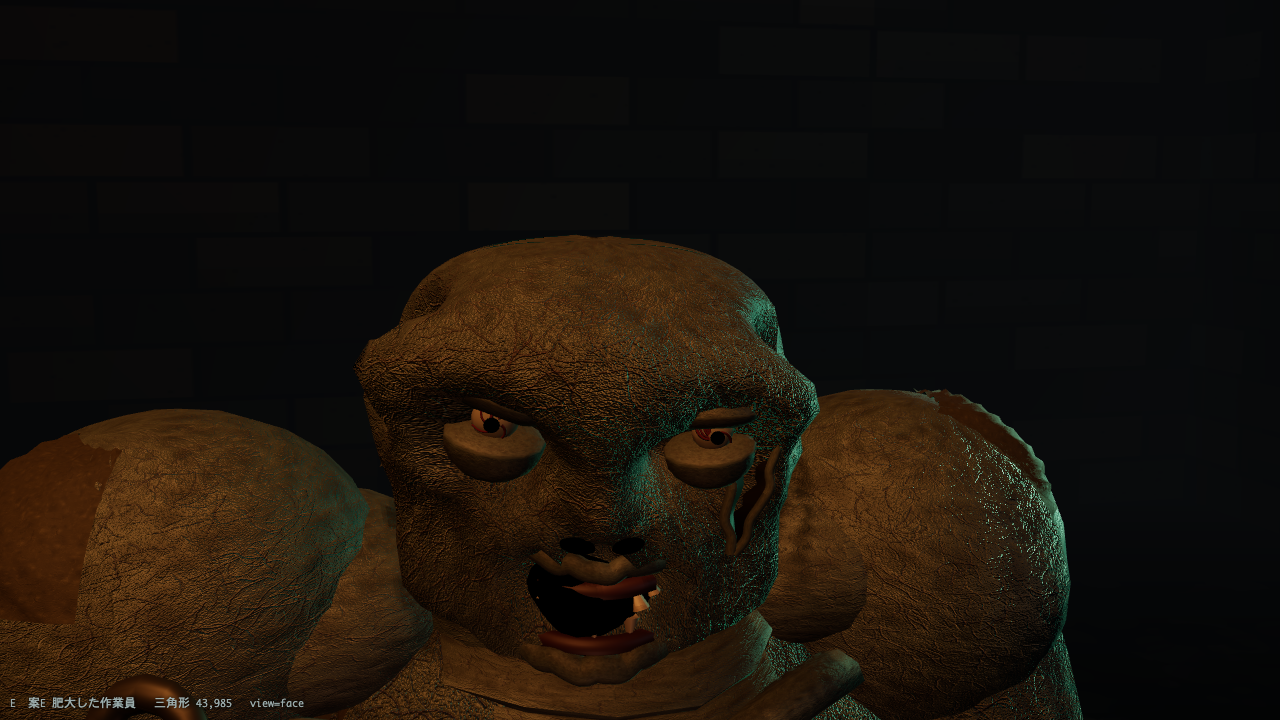
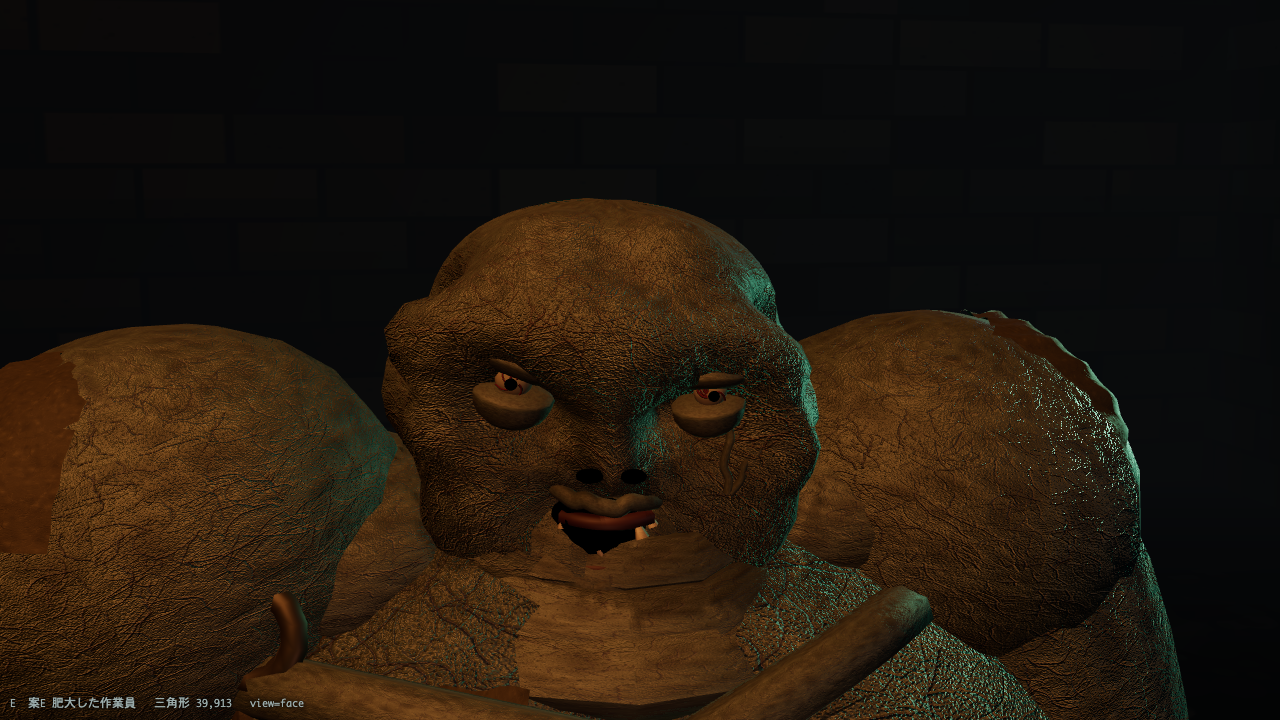
P5e-1 差し戻し: 案E 頬の膨らみ復活＋肥大化（full/face/corridor）
ユーザー評「以前の頬が膨らんでいる感じの方がよかった。もっと肥大化させて」
（契約 §4 P5e-1 目視差し戻し）
- 顔: 頭を一回り大きくし頭頂の丸みを戻したうえで、頬／頬袋／顎下／耳の前／
  額／後頭に隆起を10箇所追加＝「骨の上に水で膨れた肉が張っている」形へ。
  眉弓と眼窩の庇はむしろ強め、腫れた瞼の小さな眼は維持（丸い目玉に戻さない）。
  膨れた肉の境目の皺3本と、鼻梁→鼻尖の稜を彫り直し
- 体: 胴回り1.5倍（防護服の殻・胸腹の縦裂も同率）、脚と腕も水膨れで太くし
  belly を上げて関節の括れを埋めた。肩/肩の肉/鎖骨/反射帯/首の襞も追随
- 裂け目を5→10箇所に増設（腹・脇・上腕・肩）
- 胸腹の縦裂: 肋骨の断端と内臓を開口のすぐ内側へ出し、肥大した腹の陰でも読める
- 頭が肩の肉に沈むのと鎖・鋳鉄の鉤は維持
- 三角形を頭 seg 44／胴 26x18／防護服の殻 13x10／tear() 軽量化で吸収

顔の寄りの中央値輝度 12（v4_face.png=10・規定 9〜14）／三角形 39,913

diff --git a/audit/enemy-mocks-a2/3d/mock_E.js b/audit/enemy-mocks-a2/3d/mock_E.js
@@ -9,7 +9,7 @@
   var L = ESCAPE.__A2LIB;
 
   var ANK = 0.095, KNEE = 0.505, HIP = 0.930, SHOULDER = 1.585;
-  var HEADY = 1.690, HRX = 0.125, HRY = 0.146, HRZ = 0.136;
+  var HEADY = 1.690, HRX = 0.141, HRY = 0.150, HRZ = 0.150;
   var SPLIT_TOP = 1.455, SPLIT_BOT = 1.010;
 
   function mats() {
@@ -47,8 +47,8 @@
     var yb = HIP - 0.190, yt = SHOULDER + 0.045, cy = (yb + yt) / 2, hy = (yt - yb) / 2;
     var T = [[1, 0.90, 0.80], [0.70, 1.00, 0.92], [0.30, 1.06, 1.04], [-0.10, 1.10, 1.10],
       [-0.50, 1.02, 1.00], [-1, 0.72, 0.68]];
-    var geo = new THREE.SphereGeometry(1, 30, 22);
-    geo.scale(0.315, hy, 0.255);
+    var geo = new THREE.SphereGeometry(1, 26, 18);
+    geo.scale(0.472, hy, 0.382);
     L.deform(geo, function (x, y, z, o) {
       var ny = L.clamp(y / hy, -1, 1);
       var k = (function (n) {
@@ -88,9 +88,9 @@
     var N = 16, Lft = [], Rgt = [], Bot = [], Bot2 = [], R = L.rng(521);
     for (var i = 0; i <= N; i++) {
       var t = i / N, y = SPLIT_TOP - (SPLIT_TOP - SPLIT_BOT) * t;
-      var w = 0.118 * Math.sin(Math.PI * Math.pow(t, 0.85)) + 0.016;   /* 中ほどが最も開く */
-      var zEdge = -0.262 + 0.020 * Math.abs(t - 0.5);
-      var zBot = -0.118 - 0.016 * Math.sin(Math.PI * t);
+      var w = 0.164 * Math.sin(Math.PI * Math.pow(t, 0.85)) + 0.022;   /* 中ほどが最も開く */
+      var zEdge = -0.436 + 0.030 * Math.abs(t - 0.5);
+      var zBot = -0.280 - 0.030 * Math.sin(Math.PI * t);
       Lft.push([w * (1 + 0.10 * R()), y, zEdge]);
       Rgt.push([-w * (1 + 0.10 * R()), y, zEdge]);
       Bot.push([0.006 * Math.sin(t * 9), y, zBot]);
@@ -101,31 +101,31 @@
     g.add(L.m(L.strip(Bot2, Rgt), M.flesh));
     g.add(L.m(L.strip(Rgt, Bot2), M.flesh));
     /* 谷の底の暗がり */
-    g.add(L.m(L.ell(0.026, (SPLIT_TOP - SPLIT_BOT) / 2, 0.030, 14), M.void,
-      [0, (SPLIT_TOP + SPLIT_BOT) / 2, -0.108]));
+    g.add(L.m(L.ell(0.030, (SPLIT_TOP - SPLIT_BOT) / 2, 0.034, 14), M.void,
+      [0, (SPLIT_TOP + SPLIT_BOT) / 2, -0.228]));
     /* 肋骨の断端（両壁から折れて覗く） */
     for (var r = 0; r < 5; r++) {
       var yy = SPLIT_TOP - 0.045 - r * 0.082;
       [1, -1].forEach(function (sgn) {
-        var tor = new THREE.TorusGeometry(0.062 + r * 0.005, 0.0125, 6, 14, 1.15);
-        g.add(L.m(tor, M.rib, [sgn * 0.066, yy, -0.206],
+        var tor = new THREE.TorusGeometry(0.082 + r * 0.007, 0.0145, 6, 14, 1.20);
+        g.add(L.m(tor, M.rib, [sgn * 0.086, yy, -0.330],
           [0.15 + r * 0.05, sgn > 0 ? -0.9 : Math.PI + 0.9, sgn > 0 ? 0.65 : -0.65]));
       });
     }
     /* 濡れた内臓（谷の底に詰まる） */
     for (var j = 0; j < 8; j++) {
       var y2 = SPLIT_TOP - 0.055 - j * 0.055;
-      g.add(L.m(L.ell(0.024 + R() * 0.012, 0.022 + R() * 0.010, 0.022, 9), M.flesh,
-        [(R() - 0.5) * 0.038, y2, -0.150 + (R() - 0.5) * 0.024]));
+      g.add(L.m(L.ell(0.030 + R() * 0.014, 0.028 + R() * 0.012, 0.028, 9), M.flesh,
+        [(R() - 0.5) * 0.046, y2, -0.286 + (R() - 0.5) * 0.028]));
     }
     var pts = [];
-    for (var k = 0; k < 7; k++) pts.push([Math.sin(k * 1.7) * 0.028, SPLIT_BOT + 0.13 - k * 0.026, -0.168 + Math.cos(k * 1.3) * 0.014]);
+    for (var k = 0; k < 7; k++) pts.push([Math.sin(k * 1.7) * 0.032, SPLIT_BOT + 0.13 - k * 0.026, -0.300 + Math.cos(k * 1.3) * 0.016]);
     g.add(L.m(L.tube(pts, 0.016, 7), M.flesh));
     /* 裂けた皮膚の縁（捲れて垂れる） */
     [1, -1].forEach(function (sg) {
       var fl = new THREE.PlaneGeometry(0.040, 0.13, 2, 4);
       L.deform(fl, function (x, y, z, o) { o[2] = z + Math.sin(y * 18) * 0.010; o[0] = x * (1 - 0.45 * Math.max(0, -y / 0.13)); });
-      var mm = L.m(fl, M.skin, [sg * 0.134, SPLIT_BOT + 0.06, -0.238], [0.20, sg * 1.1, sg * 0.28]);
+      var mm = L.m(fl, M.skin, [sg * 0.176, SPLIT_BOT + 0.06, -0.386], [0.20, sg * 1.1, sg * 0.28]);
       mm.material.side = THREE.DoubleSide;
       g.add(mm);
     });
@@ -135,19 +135,19 @@
   function head(M) {
     var g = new THREE.Group(), X = HRX, Y = HRY, Z = HRZ;
     /* 頭蓋から積む: 眉弓を重く、頬骨・下顎を彫り、眼窩は骨の縁が立った深い窪み */
-    var sk = L.headShell({ rx: X, ry: Y, rz: Z, seg: 50, socket: 0.052, eye: 0.004,
+    var sk = L.headShell({ rx: X, ry: Y, rz: Z, seg: 44, socket: 0.052, eye: 0.004,
       temple: 0.030, cheek: 0.020, nose: 0.020, jaw: 0.78, chin: 0.013, brow: 0.040,
       warp: 0.0030, seed: 51 });
     /* 脳頭蓋を低く潰し、額を後退させる（眉の上がすぐ生え際） */
     L.deform(sk, function (x, y, z, o) {
       var t = L.clamp((y / Y - 0.28) / 0.72, 0, 1);
-      o[1] = y - Y * 0.30 * t * t;
-      o[2] = z + Z * 0.22 * t * t * (z < 0 ? 1 : -0.3);
-      o[0] = x * (1 - 0.10 * t * t);
+      o[1] = y - Y * 0.15 * t * t;
+      o[2] = z + Z * 0.11 * t * t * (z < 0 ? 1 : -0.3);
+      o[0] = x * (1 + 0.05 * t * t);
     });
     /* 眉弓（庇）: 左右で高さと厚みが違う */
-    L.ridge(sk, [X * 0.10, Y * 0.40, -Z * 0.86], [X * 0.86, Y * 0.30, -Z * 0.48], X * 0.32, 0.021, 1.5);
-    L.ridge(sk, [-X * 0.10, Y * 0.36, -Z * 0.86], [-X * 0.80, Y * 0.22, -Z * 0.48], X * 0.28, 0.016, 1.5);
+    L.ridge(sk, [X * 0.10, Y * 0.40, -Z * 0.86], [X * 0.86, Y * 0.30, -Z * 0.48], X * 0.32, 0.027, 1.5);
+    L.ridge(sk, [-X * 0.10, Y * 0.36, -Z * 0.86], [-X * 0.80, Y * 0.22, -Z * 0.48], X * 0.28, 0.021, 1.5);
     /* こめかみを抉り、頬骨弓を張らせ、その下を落とす */
     L.bulge(sk, [X * 0.96, Y * 0.30, -Z * 0.30], 0.058, -0.022);
     L.bulge(sk, [-X * 0.94, Y * 0.24, -Z * 0.32], 0.055, -0.026);
@@ -159,11 +159,21 @@
     L.bulge(sk, [X * 0.46, Y * 0.14, -Z * 0.80], 0.041, -0.040);
     L.bulge(sk, [-X * 0.46, Y * 0.10, -Z * 0.80], 0.054, 0.009);
     L.bulge(sk, [-X * 0.46, Y * 0.10, -Z * 0.80], 0.038, -0.036);
-    /* 水で膨れた部位（額・頬の下・顎下）が張る。片側だけ大きく垂れる。 */
-    L.bulge(sk, [X * 0.58, -Y * 0.44, -Z * 0.58], 0.062, 0.016);
-    L.bulge(sk, [-X * 0.62, -Y * 0.52, -Z * 0.54], 0.066, 0.024);
-    L.bulge(sk, [0, -Y * 0.86, -Z * 0.40], 0.080, 0.020);
-    L.bulge(sk, [X * 0.30, Y * 0.72, -Z * 0.62], 0.062, 0.010);
+    /* 水で膨れた肉が骨の上に張る（風船状の頬・顎下・こめかみ）。片側だけ大きく垂れる。 */
+    L.bulge(sk, [X * 0.66, -Y * 0.20, -Z * 0.58], 0.068, 0.034);      /* 頬（張る） */
+    L.bulge(sk, [-X * 0.70, -Y * 0.26, -Z * 0.54], 0.072, 0.042);
+    L.bulge(sk, [X * 0.60, -Y * 0.58, -Z * 0.46], 0.066, 0.032);      /* 頬袋（下半分） */
+    L.bulge(sk, [-X * 0.64, -Y * 0.64, -Z * 0.42], 0.070, 0.040);
+    L.bulge(sk, [0, -Y * 0.92, -Z * 0.34], 0.092, 0.040);             /* 顎下の肉 */
+    L.bulge(sk, [X * 0.86, -Y * 0.10, -Z * 0.10], 0.062, 0.024);      /* 耳の前が張る */
+    L.bulge(sk, [-X * 0.84, -Y * 0.16, -Z * 0.08], 0.060, 0.028);
+    L.bulge(sk, [X * 0.38, Y * 0.76, -Z * 0.58], 0.070, 0.020);       /* 額が張る */
+    L.bulge(sk, [-X * 0.34, Y * 0.80, -Z * 0.54], 0.068, 0.016);
+    L.bulge(sk, [0, Y * 0.40, Z * 0.86], 0.088, 0.022);               /* 後頭も膨れる */
+    /* 膨れた肉に食い込む皺（張りの境目）＝肉が骨の上に載っていることを示す */
+    L.ridge(sk, [X * 0.30, -Y * 0.40, -Z * 0.78], [X * 0.78, -Y * 0.26, -Z * 0.42], 0.020, -0.011, 1.6);
+    L.ridge(sk, [-X * 0.28, -Y * 0.44, -Z * 0.78], [-X * 0.76, -Y * 0.32, -Z * 0.40], 0.019, -0.012, 1.6);
+    L.ridge(sk, [X * 0.52, -Y * 0.80, -Z * 0.52], [-X * 0.50, -Y * 0.84, -Z * 0.50], 0.024, -0.013, 1.5);
     /* 下顎角を張らせ、輪郭を四角くする */
     L.bulge(sk, [X * 0.80, -Y * 0.62, -Z * 0.24], 0.046, 0.014);
     L.bulge(sk, [-X * 0.76, -Y * 0.66, -Z * 0.22], 0.044, 0.011);
@@ -171,6 +181,10 @@
     L.ridge(sk, [X * 0.28, -Y * 0.60, -Z * 0.78], [-X * 0.27, -Y * 0.62, -Z * 0.78], 0.030, -0.042, 1.2);
     L.ridge(sk, [X * 0.32, -Y * 0.44, -Z * 0.78], [-X * 0.31, -Y * 0.46, -Z * 0.78], 0.015, 0.009, 1.6);
     L.ridge(sk, [X * 0.30, -Y * 0.76, -Z * 0.76], [-X * 0.29, -Y * 0.78, -Z * 0.76], 0.016, 0.010, 1.6);
+    /* 鼻: 膨れた肉の中でも鼻梁→鼻尖の稜が残り、その下に鼻孔が影で沈む */
+    L.ridge(sk, [0, Y * 0.26, -Z * 0.88], [0, -Y * 0.20, -Z * 0.94], 0.024, 0.016, 2.0);
+    L.bulge(sk, [0, -Y * 0.21, -Z * 0.92], 0.024, 0.016);
+    L.bulge(sk, [0, -Y * 0.33, -Z * 0.86], 0.022, -0.010);
     /* 鼻唇溝と、膨れた皮膚に走る深い皺 */
     L.ridge(sk, [X * 0.18, -Y * 0.22, -Z * 0.84], [X * 0.44, -Y * 0.62, -Z * 0.66], 0.018, -0.009, 1.6);
     L.ridge(sk, [-X * 0.17, -Y * 0.24, -Z * 0.84], [-X * 0.42, -Y * 0.66, -Z * 0.64], 0.017, -0.008, 1.6);
@@ -253,7 +267,7 @@
     [1, -1].forEach(function (s2) {
       var nos = L.ell(0.0072, 0.0038, 0.0115, 10);
       L.deform(nos, function (x, y, z, o) { o[0] = x + 0.35 * z * s2; });
-      g.add(L.m(nos, M.void, [s2 * 0.0135, -Y * 0.30, -Z * 0.86], [0.55, s2 * 0.30, s2 * 0.42]));
+      g.add(L.m(nos, M.void, [s2 * 0.0142, -Y * 0.245, -Z * 0.905], [0.72, s2 * 0.30, s2 * 0.42]));
     });
     g.add(L.m(new THREE.TorusGeometry(0.022, 0.0075, 6, 16, 4.2), M.face, [X * 0.96, -Y * 0.12, -0.002], [0.2, 1.5, 0.7]));
     g.add(L.m(new THREE.TorusGeometry(0.017, 0.0060, 6, 14, 3.2), M.face, [-X * 0.95, -Y * 0.20, 0.004], [0.1, -1.5, -0.8]));
@@ -287,7 +301,7 @@
   /* 皮膚に癒着した防護服の断片: 体の楕円体に沿う殻（縁は不揃いに欠ける） */
   function suitShell(M, g, center, radii, phi0, phiLen, th0, thLen, seed) {
     var R = L.rng(seed);
-    var q = new THREE.SphereGeometry(1, 15, 12, phi0, phiLen, th0, thLen);
+    var q = new THREE.SphereGeometry(1, 13, 10, phi0, phiLen, th0, thLen);
     var uv = q.attributes.uv.array, pos = q.attributes.position.array, i;
     /* 縁を不揃いに欠けさせ、皮膚の下へ沈ませる（板の直線的な断ち切りを消す） */
     for (i = 0; i < pos.length / 3; i++) {
@@ -322,15 +336,17 @@
     grp.add(L.m(L.strip(A, B), M.flesh)); grp.add(L.m(L.strip(B, A), M.flesh));
     grp.add(L.m(L.strip(D, C), M.flesh)); grp.add(L.m(L.strip(C, D), M.flesh));
     /* 渡る繊維（引き伸ばされた皮膚） */
-    for (var f = 0; f < 5; f++) {
-      var tt = 0.18 + 0.64 * f / 4 + (R() - 0.5) * 0.06, yy = (tt - 0.5) * len;
+    for (var f = 0; f < 4; f++) {
+      var tt = 0.20 + 0.58 * f / 3 + (R() - 0.5) * 0.06, yy = (tt - 0.5) * len;
       var ww2 = w * Math.sin(Math.PI * Math.pow(tt, 0.9));
       grp.add(L.m(L.tube([[ww2 * 0.92, yy, 0.002], [0, yy + (R() - 0.5) * 0.012, -w * 0.34], [-ww2 * 0.92, yy, 0.002]],
-        0.0018 + R() * 0.0014, 4), M.skin));
+        0.0018 + R() * 0.0014, 3), M.skin));
     }
-    /* 縁の捲れ */
-    grp.add(L.m(L.tube(A, 0.0062, 6), M.skin));
-    grp.add(L.m(L.tube(C, 0.0058, 6), M.skin));
+    /* 縁の捲れ（頂点を間引いて軽くする） */
+    var A2 = A.filter(function (_, i2) { return i2 % 2 === 0; });
+    var C2 = C.filter(function (_, i2) { return i2 % 2 === 0; });
+    grp.add(L.m(L.tube(A2, 0.0062, 4), M.skin));
+    grp.add(L.m(L.tube(C2, 0.0058, 4), M.skin));
     grp.position.set(at[0], at[1], at[2]);
     grp.rotation.set(rot[0], rot[1], rot[2]);
     g.add(grp);
@@ -366,14 +382,14 @@
 
     /* 脚: 水で膨れて太い。膝から下は水に浸かってふやける。 */
     [1, -1].forEach(function (s) {
-      var hipP = [s * 0.132, HIP - 0.070, -0.010];
-      var kneeP = [s * (s > 0 ? 0.150 : 0.128), KNEE, s > 0 ? -0.070 : 0.055];
-      var ankP = [s * (s > 0 ? 0.148 : 0.120), ANK, s > 0 ? -0.010 : 0.115];
-      limb(root, M.skin, hipP, kneeP, 0.128, 0.088, 0.16);
-      root.add(L.m(L.ell(0.086, 0.082, 0.090, 16), M.skin, kneeP));
-      limb(root, M.skin, kneeP, ankP, 0.092, 0.062, 0.20);
-      root.add(L.m(L.ell(0.064, 0.056, 0.064, 14), M.skin, ankP));
-      var ft = L.ell(0.072, 0.044, 0.132, 16);
+      var hipP = [s * 0.186, HIP - 0.070, -0.010];
+      var kneeP = [s * (s > 0 ? 0.196 : 0.170), KNEE, s > 0 ? -0.070 : 0.055];
+      var ankP = [s * (s > 0 ? 0.190 : 0.158), ANK, s > 0 ? -0.010 : 0.115];
+      limb(root, M.skin, hipP, kneeP, 0.182, 0.132, 0.26);
+      root.add(L.m(L.ell(0.128, 0.120, 0.132, 14), M.skin, kneeP));
+      limb(root, M.skin, kneeP, ankP, 0.134, 0.090, 0.30);
+      root.add(L.m(L.ell(0.092, 0.080, 0.092, 12), M.skin, ankP));
+      var ft = L.ell(0.098, 0.058, 0.150, 14);
       L.deform(ft, function (x, y, z, o) { o[1] = y * (1 - 0.4 * Math.max(0, -z / 0.132)); });
       root.add(L.m(ft, M.skin, [ankP[0], 0.042, ankP[2] - 0.070], [0, s * 0.10, 0]));
       for (var t = 0; t < 5; t++) {
@@ -381,11 +397,11 @@
           [ankP[0] + (t - 2) * 0.027, 0.026, ankP[2] - 0.185 + Math.abs(t - 2) * 0.010]));
       }
       /* 太腿に癒着した防護服の裾 */
-      suitShell(M, root, [s * 0.140, HIP - 0.170, -0.010], [0.150, 0.190, 0.150], s > 0 ? 2.05 : 3.45, 1.55, 0.30, 1.30, 900 + s * 11);
+      suitShell(M, root, [s * 0.192, HIP - 0.170, -0.010], [0.212, 0.205, 0.212], s > 0 ? 2.05 : 3.45, 1.55, 0.30, 1.30, 900 + s * 11);
     });
 
     /* 胴に癒着した防護服の板（胸・背・肩） */
-    var SR = [0.334, 0.452, 0.266];
+    var SR = [0.500, 0.452, 0.400];
     suitShell(M, up, [0, cy, 0], SR, 4.02, 0.44, 0.62, 0.52, 941);
     suitShell(M, up, [0, cy, 0], SR, 5.06, 0.50, 1.18, 0.48, 947);
     suitShell(M, up, [0, cy, 0], SR, 6.15, 1.25, 0.72, 0.95, 953);
@@ -396,6 +412,11 @@
     tear(up, M, [0.110, cy - 0.330, -0.240], [0.16, -0.30, 1.35], 0.15, 0.018, 1213);
     tear(up, M, [-0.298, SHOULDER - 0.300, -0.060], [0.10, 0.40, 0.22], 0.17, 0.020, 1217);
     tear(up, M, [0.318, SHOULDER - 0.420, 0.010], [0.05, -0.45, -0.16], 0.14, 0.017, 1223);
+    tear(up, M, [0.300, cy - 0.300, -0.330], [0.12, -0.20, 0.95], 0.20, 0.024, 1229);
+    tear(up, M, [-0.330, cy - 0.060, -0.270], [-0.08, 0.30, -0.75], 0.19, 0.023, 1231);
+    tear(up, M, [-0.060, cy - 0.430, -0.390], [0.20, 0.10, 1.50], 0.17, 0.021, 1237);
+    tear(up, M, [0.415, SHOULDER - 0.230, -0.090], [0.06, -0.30, 0.40], 0.15, 0.018, 1241);
+    tear(up, M, [-0.400, SHOULDER - 0.150, 0.060], [0.02, 0.55, -0.20], 0.13, 0.016, 1249);
     for (var fk = 0; fk < 8; fk++) {
       var fa = R() * 6.284, fy = cy + (R() - 0.9) * 0.42, frr = 0.30 + R() * 0.05;
       up.add(L.m(L.ell(0.024 + R() * 0.028, 0.020 + R() * 0.024, 0.008, 7), M.suit,
@@ -416,32 +437,32 @@
 
     /* 肩（頭が沈むよう高く盛る） */
     [1, -1].forEach(function (s) {
-      var shg = L.ell(0.134, 0.118, 0.126, 18);
+      var shg = L.ell(0.186, 0.158, 0.174, 15);
       L.warp(shg, 0.010, 9, 400 + s * 7);
       L.ridge(shg, [s * 0.05, 0.08, -0.10], [s * 0.11, -0.06, 0.06], 0.05, -0.010, 1.5);
-      up.add(L.m(shg, M.skin, [s * 0.238, SHOULDER - 0.010 - (s < 0 ? 0.030 : 0), -0.010], [0, 0, -s * 0.24]));
-      suitShell(M, up, [s * 0.238, SHOULDER - 0.010 - (s < 0 ? 0.030 : 0), -0.010],
-        [0.140, 0.124, 0.132], s > 0 ? 3.00 : 5.55, 1.45, 0.26, 0.86, 1300 + s * 17);
+      up.add(L.m(shg, M.skin, [s * 0.310, SHOULDER - 0.010 - (s < 0 ? 0.034 : 0), -0.010], [0, 0, -s * 0.24]));
+      suitShell(M, up, [s * 0.310, SHOULDER - 0.010 - (s < 0 ? 0.034 : 0), -0.010],
+        [0.192, 0.164, 0.180], s > 0 ? 3.00 : 5.55, 1.45, 0.26, 0.86, 1300 + s * 17);
       /* 反射帯の名残（上腕を巻く帯） */
-      up.add(L.m(new THREE.TorusGeometry(0.098, 0.011, 4, 18, 3.6), M.band,
-        [s * 0.300, SHOULDER - 0.215, -0.010], [0.06, 0, -s * 0.30]));
+      up.add(L.m(new THREE.TorusGeometry(0.138, 0.013, 4, 18, 3.6), M.band,
+        [s * 0.390, SHOULDER - 0.215, -0.010], [0.06, 0, -s * 0.30]));
       /* 首を埋める肩の肉（頭の下半分を隠す） */
-      up.add(L.m(L.ell(0.118, 0.062, 0.106, 16), M.skin, [s * 0.168, SHOULDER - 0.014, -0.010]));
+      up.add(L.m(L.ell(0.150, 0.074, 0.134, 14), M.skin, [s * 0.208, SHOULDER - 0.018, -0.010]));
     });
     /* 鎖骨（膨れた皮膚の下に沈む） */
-    up.add(L.m(L.tube([[0.020, SHOULDER - 0.075, -0.180], [0.130, SHOULDER - 0.050, -0.140], [0.225, SHOULDER - 0.070, -0.060]], 0.017, 7), M.skin));
-    up.add(L.m(L.tube([[-0.020, SHOULDER - 0.080, -0.180], [-0.126, SHOULDER - 0.058, -0.136], [-0.220, SHOULDER - 0.080, -0.058]], 0.016, 7), M.skin));
+    up.add(L.m(L.tube([[0.024, SHOULDER - 0.075, -0.268], [0.170, SHOULDER - 0.050, -0.210], [0.295, SHOULDER - 0.070, -0.090]], 0.023, 7), M.skin));
+    up.add(L.m(L.tube([[-0.024, SHOULDER - 0.080, -0.268], [-0.166, SHOULDER - 0.058, -0.204], [-0.288, SHOULDER - 0.080, -0.088]], 0.022, 7), M.skin));
 
     /* 異様に長い腕（手は膝より下） */
     [1, -1].forEach(function (s) {
-      var sh = [s * 0.258, SHOULDER - 0.055, -0.020];
-      var el = s > 0 ? [0.428, 0.905, 0.030] : [-0.412, 0.880, -0.115];
-      var wr = s > 0 ? [0.408, 0.315, -0.185] : [-0.452, 0.285, 0.010];
-      limb(up, M.skin, sh, el, 0.092, 0.062, 0.20);
-      up.add(L.m(L.ell(0.062, 0.058, 0.062, 14), M.skin, el));
-      limb(up, M.skin, el, wr, 0.064, 0.046, 0.22);
+      var sh = [s * 0.336, SHOULDER - 0.055, -0.020];
+      var el = s > 0 ? [0.512, 0.905, 0.030] : [-0.496, 0.880, -0.115];
+      var wr = s > 0 ? [0.492, 0.315, -0.185] : [-0.536, 0.285, 0.010];
+      limb(up, M.skin, sh, el, 0.134, 0.092, 0.30);
+      up.add(L.m(L.ell(0.092, 0.086, 0.092, 12), M.skin, el));
+      limb(up, M.skin, el, wr, 0.096, 0.070, 0.32);
       var hand = new THREE.Group();
-      hand.add(L.m(L.ell(0.056, 0.070, 0.028, 16), M.skin, [0, -0.058, 0]));
+      hand.add(L.m(L.ell(0.074, 0.090, 0.040, 14), M.skin, [0, -0.070, 0]));
       for (var f = 0; f < 4; f++) {
         var fx = (f - 1.5) * 0.030, spread = (f - 1.5) * 0.14, y0 = -0.112, zz = 0;
         for (var k = 0; k < 3; k++) {
@@ -464,7 +485,7 @@
 
     /* 鎖と鉤（右手から床へ垂れ、後ろへ引きずられる。鉤は0.4mの鋳鉄） */
     var chain = new THREE.Group();
-    var gx = 0.430, gy = 0.305, gz = -0.265, N = 16;
+    var gx = 0.512, gy = 0.305, gz = -0.270, N = 16;
     for (var i = 0; i < N; i++) {
       var t = i / (N - 1);
       var x = gx + 0.070 * t, y = gy * (1 - t) * (1 - t) + 0.030, z = gz + 0.70 * t * t + 0.10 * t;
@@ -491,17 +512,17 @@
     hd.rotation.set(0.10, -0.18, 0.06);
     up.add(hd);
     /* 首は無く、顎下の肉と首の皮膚の襞が肩へ続く（頭の下半分が沈む） */
-    up.add(L.m(L.ell(0.112, 0.076, 0.106, 16), M.skin, [-0.010, HEADY - 0.112, -0.030]));
+    up.add(L.m(L.ell(0.146, 0.092, 0.138, 14), M.skin, [-0.010, HEADY - 0.118, -0.030]));
     for (var nf = 0; nf < 3; nf++) {
-      var fr = new THREE.TorusGeometry(0.092 + nf * 0.012, 0.020 + nf * 0.004, 5, 16);
+      var fr = new THREE.TorusGeometry(0.118 + nf * 0.016, 0.026 + nf * 0.005, 5, 16);
       L.deform(fr, function (x, y, z, o) { o[1] = y + 0.010 * Math.sin(x * 22) - 0.006; o[0] = x * (1 + 0.06 * Math.sin(z * 18)); });
       up.add(L.m(fr, M.skin, [-0.012, HEADY - 0.088 - nf * 0.040, -0.028], [1.42 + nf * 0.06, 0, 0.05]));
     }
     /* 斜め上からの橙1灯＋反対側の弱い緑で形を彫る */
-    var key = new THREE.PointLight(0xffa860, 11.0, 6.4, 2); key.position.set(0.95, 2.55, -1.70); root.add(key);
+    var key = new THREE.PointLight(0xffa860, 13.0, 7.0, 2); key.position.set(0.95, 2.55, -1.70); root.add(key);
     var grn = new THREE.PointLight(0x6ab896, 5.0, 3.9, 2); grn.position.set(-1.10, 1.62, 0.50); root.add(grn);
     /* 裂け目の内側にわずかな回り込み（肋骨と内臓が読めるだけ） */
-    var wl = new THREE.PointLight(0xffb494, 0.16, 0.80, 2); wl.position.set(0.04, 1.22, -0.44); root.add(wl);
+    var wl = new THREE.PointLight(0xffb494, 0.30, 0.78, 2); wl.position.set(0.03, 1.26, -0.60); root.add(wl);
     return root;
   }
 
@@ -509,8 +530,8 @@
     name: '案E 肥大した作業員',
     build: build,
     cams: {
-      full: { pos: [0.86, 0.98, -2.30], look: [0.05, 0.96, -0.02], fov: 58 },
-      face: { pos: [0.15, 1.800, -0.96], look: [-0.02, 1.700, -0.21], fov: 31 },
+      full: { pos: [0.92, 0.92, -2.42], look: [0.03, 0.98, -0.02], fov: 54 },
+      face: { pos: [0.17, 1.815, -1.14], look: [-0.02, 1.678, -0.20], fov: 31 },
       corridor: { pos: [0.0, 1.56, 1.20], look: [0.0, 1.20, -8.6], fov: 42,
         place: [0.05, 0.0, -8.6], rot: [0, 0.30, 0] }
     }

diff --git a/audit/enemy-mocks-a2/3d/README_A.md b/audit/enemy-mocks-a2/3d/README_A.md
@@ -5,8 +5,8 @@
 
 | | 三角形 | face 中央値輝度 | full | corridor |
 |---|---|---|---|---|
-| D 配管を這う | 38,549 | **9**（v4_face.png=10） | 8 | 1 |
-| E 肥大した作業員 | 43,985 | **10** | 8 | 1 |
+| D 配管を這う | 40,157 | **9**（v4_face.png=10） | 8 | 1 |
+| E 肥大した作業員 | 39,913 | **12** | 9 | 1 |
 
 ※ 中央値輝度は全画面 1280x720 のグレースケール中央値。corridor は「ライトなし」の
    規定どおり被写体に専用光を当てないため暗く、9〜14 の較正は face にのみ適用した。
@@ -60,3 +60,46 @@
 - E の肩の防護服は球殻の切片なので、縁を不揃いに沈めて誤魔化している（板の断ち切りは解消済み）。
 - corridor の全画面中央値輝度は 1（規定どおり被写体を照らさないため）。face のみ 9〜14 に較正。
 - 三角形数は D 38,549 / E 43,985（上限 45,000）。E は余裕が少ない。
+
+
+## 目視差し戻し（2026-09-14 ユーザー評）への対応
+
+### D「体が細すぎる」
+- 胴の断面を **1.8 倍**（y/z 半径 0.118/0.100 → 0.212/0.180）。肋・棘突起・背骨・腹の
+  彫りを新断面に合わせて拡大したので、太くしても骨が浮く量は保たれる。
+- 各肢の太さを **1.6 倍**（根元 0.068→0.109／先端 0.026→0.042）。節の中央の括れを
+  26%→10% に浅くし、ソーセージ状に見えるのを回避。関節の瘤は肢に対する比を
+  1.46→1.32 に下げたが実寸では 1.6 倍以上。
+- 肩と骨盤を幅のある塊（0.178/0.128/0.168）へ差し替え、稜と歪みで胴に溶かした。首も 1.54 倍。
+- **重量感**: 配管・並走管・バンド・吊りボルトが個体の真下で最大 5.2cm たわむ（`sag()`）。
+  掴む手を 2.05 倍にし、指の巻き込み角を上げて配管に食い込ませた。
+- 多関節・逆さの顔・縦裂の口は現行のまま。
+
+### E「以前の頬の膨らみが良かった・もっと肥大化」
+- **顔**: 頭を一回り大きく（HRX 0.125→0.141・HRZ 0.136→0.150）、頭頂の潰しを半分に戻して
+  丸みを復活。その上で 頬／頬袋／顎下／耳の前／額／後頭 に大きな隆起を 10 箇所追加し、
+  「骨の上に水で膨れた肉が張っている」形にした。眉弓と眼窩の庇はむしろ強め（0.021→0.027）、
+  腫れた瞼の小さな眼はそのまま＝丸い目玉には戻していない。
+  膨れた肉の境目に食い込む皺を 3 本入れて、肉が骨に載っていることを示す。
+  膨れた顔でも鼻梁→鼻尖の稜が残るよう鼻の塊を彫り直した。
+- **体**: 胴回り **1.5 倍**（0.315/0.255 → 0.472/0.382）。防護服の殻・胸腹の縦裂も同率で拡大。
+  脚（0.128→0.182）・腕（0.092→0.134）も水膨れで太くし、`belly` を 0.16→0.26〜0.32 に上げて
+  関節の括れを埋めた。肩・肩の肉・鎖骨・反射帯・首の襞を胴幅に合わせて拡大。
+- **裂け目を増やす**: 5 箇所 → **10 箇所**（腹・脇・上腕・肩）。三角形を抑えるため
+  `tear()` の縁の管を間引き（頂点 1/2・放射 6→4）、繊維を 5→4 本・放射 4→3 にした。
+- **胸腹の縦裂**: 肋骨の断端と内臓を開口のすぐ内側（z -0.206→-0.330 / -0.150→-0.286）へ出し、
+  肋骨も 1.3 倍に。これで肥大した腹の陰でも断端が読める。
+- 頭が肩の肉に沈むのと、鎖・鋳鉄の鉤は維持。
+
+### 三角形の内訳（上限 45k）
+- D 40,157（配管のたわみで分割数を上げた分 +1.6k）
+- E 39,913（頭 seg 50→44・胴 30x22→26x18・防護服の殻 15x12→13x10・`tear()` の軽量化で
+  肥大化と裂け目 5 箇所追加を吸収）
+
+### 追加の妥協点
+- D: 太くしたぶん、遠景（corridor）では「多関節」よりも「重い塊」として読む。
+  シルエットの読みは向上したが、関節の数は近景でしか数えられない。
+- E: 顔の寄りは p90 が 56（D は 32）と明るめ。ナトリウム橙のキーを近くに置いて
+  膨れた肉の張りを出しているため。中央値は 12 で規定内。
+- E: 防護服の殻は依然として球殻の切片で、肥大化に合わせて拡大しただけ。
+  本番では体表から生成すべき。
